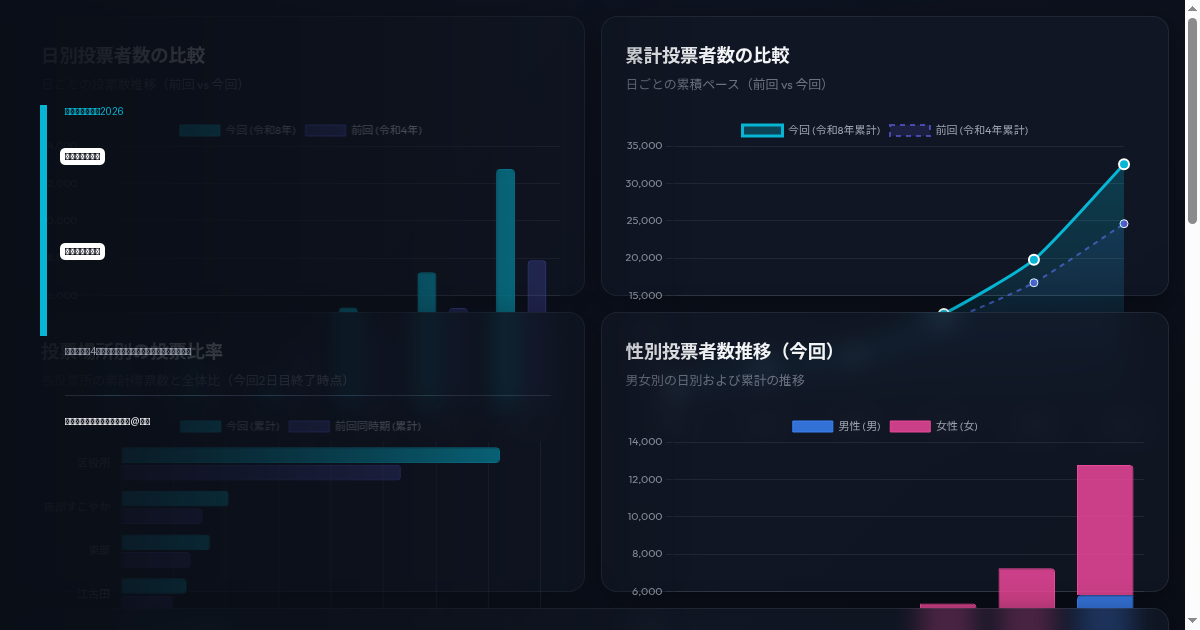
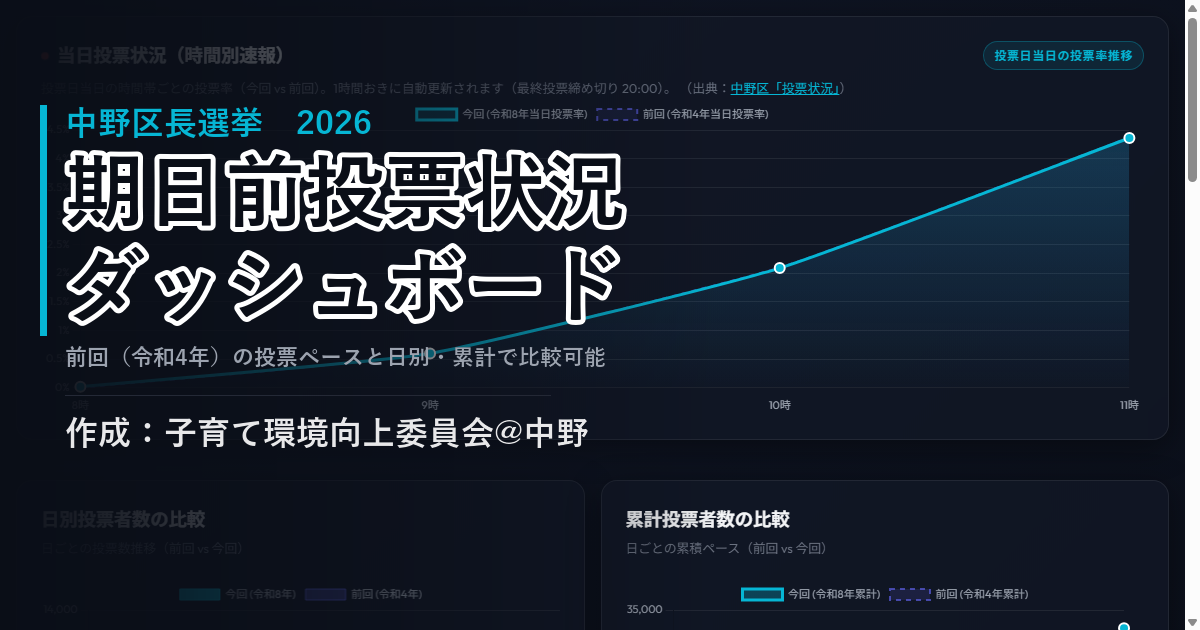
feat: 投票日当日の時間別投票率（速報）グラフの追加および毎時自動更新への移行

diff --git a/app.js b/app.js
@@ -16,7 +16,8 @@ document.addEventListener('DOMContentLoaded', () => {
         cumulative: null,
         station: null,
         gender: null,
-        past: null
+        past: null,
+        today: null
     };
 
     // DOM Elements
@@ -597,6 +598,112 @@ document.addEventListener('DOMContentLoaded', () => {
                         stacked: true,
                         grid: { color: themeOpts.gridColor },
                         ticks: { color: themeOpts.textColor, font: fontConfig }
+                    }
+                }
+            }
+        });
+
+        // --- Chart 6: Today's Voting (Line Chart) ---
+        const ctxToday = document.getElementById('today-voting-chart').getContext('2d');
+        const todayData = votingData.todayVoting || [];
+        const labelsToday = todayData.map(d => d.time);
+        const ratesToday = todayData.map(d => d.currentRate);
+        const prevRatesToday = todayData.map(d => d.previousRate);
+
+        // Set up line gradients
+        const gradientToday = ctxToday.createLinearGradient(0, 0, 0, 300);
+        gradientToday.addColorStop(0, 'rgba(6, 182, 212, 0.2)');
+        gradientToday.addColorStop(1, 'rgba(6, 182, 212, 0.0)');
+
+        const gradientPrevToday = ctxToday.createLinearGradient(0, 0, 0, 300);
+        gradientPrevToday.addColorStop(0, 'rgba(99, 102, 241, 0.1)');
+        gradientPrevToday.addColorStop(1, 'rgba(99, 102, 241, 0.0)');
+
+        charts.today = new Chart(ctxToday, {
+            type: 'line',
+            data: {
+                labels: labelsToday,
+                datasets: [
+                    {
+                        label: '今回 (令和8年当日投票率)',
+                        data: ratesToday,
+                        borderColor: 'rgba(6, 182, 212, 1)',
+                        backgroundColor: gradientToday,
+                        borderWidth: 3,
+                        pointBackgroundColor: 'rgba(6, 182, 212, 1)',
+                        pointBorderColor: '#fff',
+                        pointBorderWidth: 2,
+                        pointRadius: 5,
+                        pointHoverRadius: 7,
+                        fill: true,
+                        tension: 0.15
+                    },
+                    {
+                        label: '前回 (令和4年当日投票率)',
+                        data: prevRatesToday,
+                        borderColor: 'rgba(99, 102, 241, 0.65)',
+                        backgroundColor: gradientPrevToday,
+                        borderWidth: 2,
+                        borderDash: [5, 5],
+                        pointBackgroundColor: 'rgba(99, 102, 241, 0.8)',
+                        pointBorderColor: '#fff',
+                        pointBorderWidth: 1,
+                        pointRadius: 4,
+                        pointHoverRadius: 6,
+                        fill: true,
+                        tension: 0.15
+                    }
+                ]
+            },
+            options: {
+                responsive: true,
+                maintainAspectRatio: false,
+                plugins: {
+                    legend: {
+                        position: 'top',
+                        labels: { color: themeOpts.textColor, font: fontConfig }
+                    },
+                    tooltip: {
+                        backgroundColor: themeOpts.tooltipBg,
+                        titleColor: themeOpts.tooltipText,
+                        bodyColor: themeOpts.tooltipText,
+                        borderColor: themeOpts.tooltipBorder,
+                        borderWidth: 1,
+                        callbacks: {
+                            label: function(context) {
+                                let label = context.dataset.label || '';
+                                if (label) {
+                                    label += ': ';
+                                }
+                                if (context.parsed.y !== null) {
+                                    label += context.parsed.y.toFixed(2) + '%';
+                                    
+                                    const idx = context.dataIndex;
+                                    const item = todayData[idx];
+                                    if (item) {
+                                        const votes = context.datasetIndex === 0 ? item.currentVotes : item.previousVotes;
+                                        label += ' (' + votes.toLocaleString() + ' 人)';
+                                    }
+                                }
+                                return label;
+                            }
+                        }
+                    }
+                },
+                scales: {
+                    x: {
+                        grid: { display: false },
+                        ticks: { color: themeOpts.textColor, font: fontConfig }
+                    },
+                    y: {
+                        grid: { color: themeOpts.gridColor },
+                        ticks: { 
+                            color: themeOpts.textColor, 
+                            font: fontConfig,
+                            callback: function(value) {
+                                return value + '%';
+                            }
+                        }
                     }
                 }
             }

diff --git a/index.html b/index.html
@@ -13,14 +13,14 @@
     <meta property="og:url" content="https://kawazusa.github.io/2026nakanovoting_rate/">
     <meta property="og:title" content="中野区長選挙 期日前投票状況ダッシュボード (前回 vs 今回)">
     <meta property="og:description" content="前回（令和4年）と今回（令和8年）の中野区長選挙の期日前投票状況を日ごと比較できるダッシュボードです。毎日21:15頃に最新データへ自動更新されます。">
-    <meta property="og:image" content="https://kawazusa.github.io/2026nakanovoting_rate/ogp-image.png?v=202606061406">
+    <meta property="og:image" content="https://kawazusa.github.io/2026nakanovoting_rate/ogp-image.png?v=202606071126">
 
     <!-- Twitter -->
     <meta property="twitter:card" content="summary_large_image">
     <meta property="twitter:url" content="https://kawazusa.github.io/2026nakanovoting_rate/">
     <meta property="twitter:title" content="中野区長選挙 期日前投票状況ダッシュボード (前回 vs 今回)">
     <meta property="twitter:description" content="前回（令和4年）と今回（令和8年）の中野区長選挙の期日前投票状況を日ごと比較できるダッシュボードです。毎日21:15頃に最新データへ自動更新されます。">
-    <meta property="twitter:image" content="https://kawazusa.github.io/2026nakanovoting_rate/ogp-image.png?v=202606061406">
+    <meta property="twitter:image" content="https://kawazusa.github.io/2026nakanovoting_rate/ogp-image.png?v=202606071126">
     
     <!-- Google Fonts -->
     <link rel="preconnect" href="https://fonts.googleapis.com">
@@ -31,7 +31,7 @@
     <script src="https://cdn.jsdelivr.net/npm/chart.js"></script>
     
     <!-- Custom CSS -->
-    <link rel="stylesheet" href="styles.css?v=202606061406">
+    <link rel="stylesheet" href="styles.css?v=202606071126">
 </head>
 <body>
     <div class="app-container">
@@ -140,6 +140,26 @@
             </div>
         </section>
 
+        <!-- Today's Voting (Election Day Hourly Bulletins) -->
+        <section class="today-voting-section card" aria-label="投票日当日の時間別投票状況">
+            <div class="chart-header" style="padding: 24px 24px 0 24px;">
+                <div style="display: flex; align-items: center; justify-content: space-between; flex-wrap: wrap; gap: 8px;">
+                    <h3 style="display: flex; align-items: center; gap: 8px;">
+                        <span class="pulse-indicator"></span>
+                        当日投票状況（時間別速報）
+                    </h3>
+                    <span class="badge" style="background: rgba(6, 182, 212, 0.1); color: var(--accent-current);">投票日当日の投票率推移</span>
+                </div>
+                <p class="chart-desc" style="margin-top: 4px;">
+                    投票日当日の時間帯ごとの投票率（今回 vs 前回）。1時間おきに自動更新されます（最終投票締め切り 20:00）。
+                    （出典：<a href="https://www.city.tokyo-nakano.lg.jp/kusei/senkyo/news/260607touhyou.html" target="_blank" rel="noopener noreferrer" style="color: var(--accent-current); text-decoration: underline;">中野区「投票状況」</a>）
+                </p>
+            </div>
+            <div class="chart-body" style="padding: 0 24px 24px 24px; min-height: 340px; height: 340px; position: relative; width: 100%;">
+                <canvas id="today-voting-chart" aria-label="投票日当日時間別投票状況グラフ"></canvas>
+            </div>
+        </section>
+
         <!-- Charts Layout Grid -->
         <section class="charts-grid" aria-label="分析グラフ">
             <!-- Chart 1: Daily Comparison -->
@@ -245,7 +265,7 @@
     </div>
 
     <!-- Data & Script files -->
-    <script src="data.js?v=202606061406"></script>
-    <script src="app.js?v=202606061406"></script>
+    <script src="data.js?v=202606071126"></script>
+    <script src="app.js?v=202606071126"></script>
 </body>
 </html>

diff --git a/data.js b/data.js
@@ -30,6 +30,38 @@ const votingData = {
     { "label": "令和4年5月22日", "shortLabel": "R4 (5/22)", "total": 33.72, "male": 32.55, "female": 34.89 }
   ],
   
+  // 当日投票状況 (時間別速報)
+  todayVoting: [
+      {
+          "time": "8時",
+          "currentVotes": 50,
+          "currentRate": 0.02,
+          "previousVotes": 0,
+          "previousRate": 0.0
+      },
+      {
+          "time": "9時",
+          "currentVotes": 1650,
+          "currentRate": 0.6,
+          "previousVotes": 1650,
+          "previousRate": 0.6
+      },
+      {
+          "time": "10時",
+          "currentVotes": 5750,
+          "currentRate": 2.09,
+          "previousVotes": 5750,
+          "previousRate": 2.1
+      },
+      {
+          "time": "11時",
+          "currentVotes": 12000,
+          "currentRate": 4.36,
+          "previousVotes": 11950,
+          "previousRate": 4.37
+      }
+  ],
+  
   // 今回 (令和8年6月7日執行 中野区長選挙)
   current: {
     title: "令和8年6月7日執行 中野区長選挙",

diff --git a/styles.css b/styles.css
@@ -664,3 +664,35 @@ tbody tr:hover {
 .highlight-animate {
     animation: highlight-glow 0.8s ease-out;
 }
+
+/* Pulse indicator for live election day updates */
+.pulse-indicator {
+    width: 8px;
+    height: 8px;
+    background-color: #ef4444;
+    border-radius: 50%;
+    display: inline-block;
+    box-shadow: 0 0 0 0 rgba(239, 68, 68, 0.7);
+    animation: pulse 1.8s infinite;
+    flex-shrink: 0;
+}
+
+@keyframes pulse {
+    0% {
+        transform: scale(0.95);
+        box-shadow: 0 0 0 0 rgba(239, 68, 68, 0.7);
+    }
+    70% {
+        transform: scale(1);
+        box-shadow: 0 0 0 8px rgba(239, 68, 68, 0);
+    }
+    100% {
+        transform: scale(0.95);
+        box-shadow: 0 0 0 0 rgba(239, 68, 68, 0);
+    }
+}
+
+/* Margin adjust for today-voting card */
+.today-voting-section {
+    margin-bottom: 24px;
+}

diff --git a/update_data.py b/update_data.py
@@ -173,7 +173,43 @@ def parse_pdf(pdf_path):
             
     return male_data, female_data
 
-def generate_data_js(male_data, female_data, output_path):
+def get_hourly_voting():
+    url = "https://www.city.tokyo-nakano.lg.jp/kusei/senkyo/news/260607touhyou.html"
+    print(f"Fetching hourly voting page: {url}")
+    headers = {'User-Agent': 'Mozilla/5.0'}
+    req = urllib.request.Request(url, headers=headers)
+    
+    try:
+        with urllib.request.urlopen(req) as response:
+            html = response.read().decode('utf-8')
+            
+        pattern = r'<tr>\s*<th scope="row">([^<]+)</th>\s*<td>([^<]+)</td>\s*<td>([^<]+)</td>\s*<td>([^<]+)</td>\s*<td>([^<]+)</td>\s*</tr>'
+        matches = re.findall(pattern, html)
+        
+        hourly_data = []
+        # Matches are sorted from newest to oldest in HTML, reverse them for chronological order
+        for m in reversed(matches):
+            time_label = m[0].replace("時点", "")
+            
+            curr_votes = int(m[1].replace(",", ""))
+            curr_rate = float(m[2])
+            prev_votes = int(m[3].replace(",", ""))
+            prev_rate = float(m[4])
+            
+            hourly_data.append({
+                "time": time_label,
+                "currentVotes": curr_votes,
+                "currentRate": curr_rate,
+                "previousVotes": prev_votes,
+                "previousRate": prev_rate
+            })
+        print(f"Parsed {len(hourly_data)} hourly records successfully.")
+        return hourly_data
+    except Exception as e:
+        print(f"Failed to fetch or parse hourly voting: {e}")
+        return []
+
+def generate_data_js(male_data, female_data, hourly_data, output_path):
     station_blocks = []
     for s in STATIONS:
         male_list_str = str(male_data[s]).replace("None", "null")
@@ -187,9 +223,21 @@ def generate_data_js(male_data, female_data, output_path):
         
     stations_js = ",\n".join(station_blocks)
     
+    # Format hourly data as JSON
+    import json
+    hourly_json = json.dumps(hourly_data, ensure_ascii=False, indent=4)
+    # Indent it matching the layout of the file
+    hourly_js_lines = []
+    for line in hourly_json.split("\n"):
+        hourly_js_lines.append("  " + line)
+    hourly_js = "\n".join(hourly_js_lines).strip()
+    
     js_content = f"""const votingData = {{
 {PREVIOUS_DATA}
 {PAST_ELECTIONS_DATA}
+  
+  // 当日投票状況 (時間別速報)
+  todayVoting: {hourly_js},
   
   // 今回 (令和8年6月7日執行 中野区長選挙)
   current: {{
@@ -359,8 +407,11 @@ def main():
         download_pdf(pdf_url, temp_pdf)
         male_data, female_data = parse_pdf(temp_pdf)
         
+        # Fetch hourly voting data
+        hourly_data = get_hourly_voting()
+        
         # Overwrite data.js
-        generate_data_js(male_data, female_data, "data.js")
+        generate_data_js(male_data, female_data, hourly_data, "data.js")
         
         # Update index.html OGP image URL with timestamp query parameter to bust cache
         timestamp = datetime.now().strftime("%Y%m%d%H%M")
